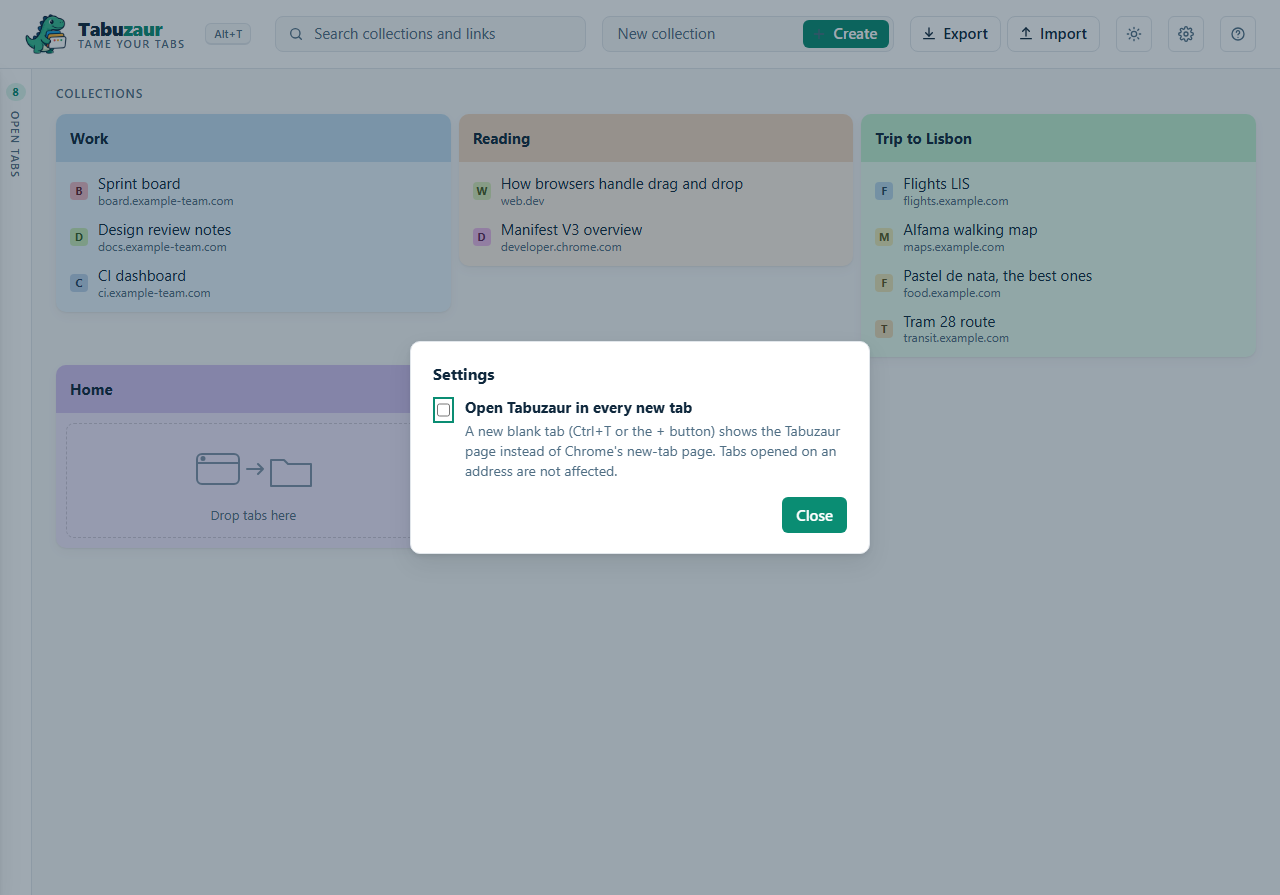
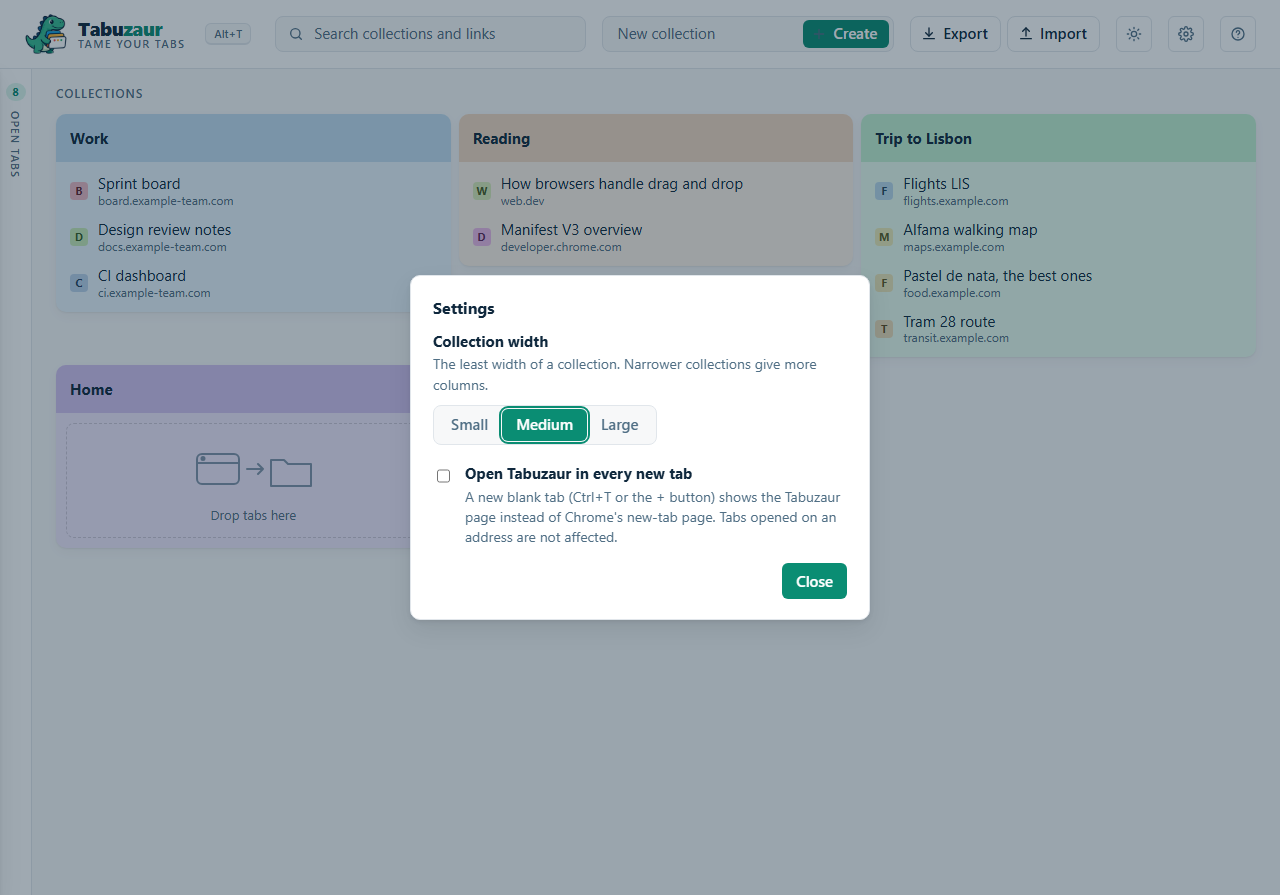
feat: collection width setting with three steps
Settings holds a bar Small / Medium / Large (CardSizeStore under
tabuzaur-card-size, medium until saved, two tests). The step sets the
least width of a card through html[data-size] and a --card-min variable:
260, 320 or 420px. Measured headless at 1280px: 4, 3 or 2 columns; the
count still follows the window. The dialog opens with the focus on the
current step. Help, README and the settings picture name the bar.

Changed region(s): [[0.3125, 0.3017, 0.6875, 0.6939]]

diff --git a/src/tabs/main.ts b/src/tabs/main.ts
@@ -3,8 +3,8 @@ import { backupFileName, parseBackup, serializeBackup } from "../lib/backup.ts";
 import { CollectionBook, findMatch } from "../lib/collections.ts";
 import type { Clock, Collection, IdSource, SavedPage } from "../lib/model.ts";
 import { HUE_COUNT, RandomIdSource, SystemClock } from "../lib/model.ts";
-import type { Persistence, Theme } from "../lib/storage.ts";
-import { FlagStore, LocalPersistence, OPEN_IN_NEW_TAB_KEY, SIDEBAR_PINNED_KEY, THEMES, ThemeStore } from "../lib/storage.ts";
+import type { CardSize, Persistence, Theme } from "../lib/storage.ts";
+import { CARD_SIZES, CardSizeStore, FlagStore, LocalPersistence, OPEN_IN_NEW_TAB_KEY, SIDEBAR_PINNED_KEY, THEMES, ThemeStore } from "../lib/storage.ts";
 import type { OpenTab, TabBrowser } from "../lib/tabs.ts";
 import { ChromeTabBrowser } from "../lib/tabs.ts";
 import { hostnameOf, hueOf, initialOf } from "../lib/urls.ts";
@@ -57,6 +57,7 @@ class TabsPage {
   private theme: Theme = "system";
   private pinned = false;
   private openInNewTab = false;
+  private cardSize: CardSize = "medium";
   private shortcut = "";
   private renaming: string | undefined;
   private editingPage: PageRef | undefined;
@@ -72,6 +73,7 @@ class TabsPage {
     private readonly themes: ThemeStore,
     private readonly sidebarPinned: FlagStore,
     private readonly newTabFlag: FlagStore,
+    private readonly cardSizes: CardSizeStore,
     private readonly browser: TabBrowser,
     private readonly clock: Clock,
     private readonly ids: IdSource,
@@ -81,7 +83,9 @@ class TabsPage {
     this.theme = await this.themes.load();
     this.pinned = await this.sidebarPinned.load();
     this.openInNewTab = await this.newTabFlag.load();
+    this.cardSize = await this.cardSizes.load();
     this.applyTheme();
+    this.applyCardSize();
     this.darkSystem.addEventListener("change", () => { this.applyTheme(); });
     await this.loadBook();
     this.ownWindowId = await this.browser.currentWindowId();
@@ -105,6 +109,11 @@ class TabsPage {
     if (this.book !== loaded) {
       await this.persistence.save(this.book.toData());  // a pre-0.3.0 document: colors are stamped once
     }
+  }
+
+  /** The stylesheet reads the collection width from this attribute (the least width of a card). */
+  private applyCardSize(): void {
+    document.documentElement.dataset.size = this.cardSize;
   }
 
   /** Resolves "system" to the OS choice, so the stylesheet only knows light and dark. */
@@ -196,11 +205,42 @@ class TabsPage {
     return gear;
   }
 
-  /** The settings dialog: one option so far, off by default. */
+  /** The settings dialog: the collection width bar and the new-tab option (off by default). */
   private openSettings(): void {
     const dialog = el("dialog", "settings") as HTMLDialogElement;
     const heading = el("h3");
     heading.textContent = "Settings";
+
+    const sizeRow = el("div", "option size");
+    const sizeWords = el("span");
+    const sizeName = el("strong");
+    sizeName.textContent = "Collection width";
+    const sizeNote = el("span", "note");
+    sizeNote.textContent = "The least width of a collection. Narrower collections give more columns.";
+    sizeWords.append(sizeName, sizeNote);
+    const bar = el("div", "segments");
+    bar.setAttribute("role", "radiogroup");
+    bar.setAttribute("aria-label", "Collection width");
+    const labels: Record<CardSize, string> = { small: "Small", medium: "Medium", large: "Large" };
+    const segments = CARD_SIZES.map((size) => {
+      const segment = button(() => {
+        this.run(async () => {
+          await this.cardSizes.save(size);
+          this.cardSize = size;
+          this.applyCardSize();
+          for (const [other, otherSize] of segments) {
+            other.setAttribute("aria-checked", String(otherSize === size));
+          }
+        }, () => undefined);
+      }, "button", "segment", labels[size]);
+      segment.setAttribute("role", "radio");
+      segment.setAttribute("aria-checked", String(size === this.cardSize));
+      segment.autofocus = size === this.cardSize;  // the dialog opens with the focus on the current step
+      bar.append(segment);
+      return [segment, size] as const;
+    });
+    sizeRow.append(sizeWords, bar);
+
     const option = el("label", "option");
     const box = el("input") as HTMLInputElement;
     box.type = "checkbox";
@@ -220,7 +260,7 @@ class TabsPage {
     });
     const actions = el("div", "actions");
     actions.append(button(() => { dialog.close(); dialog.remove(); }, "button", "primary", "Close"));
-    dialog.append(heading, option, actions);
+    dialog.append(heading, sizeRow, option, actions);
     dialog.addEventListener("cancel", () => { dialog.remove(); });
     document.body.append(dialog);
     dialog.showModal();
@@ -942,6 +982,7 @@ const page = new TabsPage(
   new ThemeStore(chrome.storage.local),
   new FlagStore(chrome.storage.local, SIDEBAR_PINNED_KEY),
   new FlagStore(chrome.storage.local, OPEN_IN_NEW_TAB_KEY),
+  new CardSizeStore(chrome.storage.local),
   new ChromeTabBrowser(),
   new SystemClock(),
   new RandomIdSource(),

diff --git a/help.html b/help.html
@@ -67,9 +67,10 @@
           <li><strong>The toolbar button.</strong> Click the dinosaur next to the address bar. Pin it there with the puzzle-piece menu if Chrome hides it.</li>
           <li><strong>Alt+T.</strong> Chrome assigns this key at install when no other extension uses it. The page header shows the key in effect. If it shows <em>No shortcut assigned</em>, click it and set a key on <code>chrome://extensions/shortcuts</code>.</li>
           <li><strong>Every new tab.</strong> Off by default. Open Settings with the gear in the header and tick <strong>Open Tabuzaur in every new tab</strong>. A new blank tab then shows the Tabuzaur page. Untick it to get Chrome's new-tab page back.</li>
+          <li><strong>Collection width.</strong> Settings also holds a bar with three steps: Small, Medium, Large. It sets the least width of a collection. Narrower collections give more columns. The number of columns follows the window either way.</li>
           <li><strong>Start page.</strong> Copy the ID from the Tabuzaur card. Open <code>chrome://settings/onStartup</code>, choose <strong>Open a specific page or set of pages</strong>, click <strong>Add a new page</strong> and enter <code>chrome-extension://&lt;id&gt;/tabs.html</code>.</li>
         </ul>
-        <figure><img src="help/img/settings.png" alt="The settings dialog with the new-tab option" /><figcaption>Settings: the new-tab option, off until you tick it.</figcaption></figure>
+        <figure><img src="help/img/settings.png" alt="The settings dialog with the new-tab option" /><figcaption>Settings: the collection width bar and the new-tab option, off until you tick it.</figcaption></figure>
         <figure><img src="help/img/chrome-startup.png" alt="Chrome's On startup setting with the Tabuzaur page added" /><figcaption>The On startup setting with the Tabuzaur page.</figcaption></figure>
         <figure><img src="help/img/chrome-shortcuts.png" alt="Chrome's keyboard shortcuts page with the Tabuzaur row" /><figcaption>The shortcuts page: any key can be set here.</figcaption></figure>
       </section>

diff --git a/tests/storage.test.ts b/tests/storage.test.ts
@@ -1,7 +1,7 @@
 import { describe, expect, it } from "vitest";
 import { CollectionBook } from "../src/lib/collections.ts";
 import { STORAGE_KEY } from "../src/lib/model.ts";
-import { FlagStore, LocalPersistence, parseStoreData, SIDEBAR_PINNED_KEY, THEME_KEY, ThemeStore } from "../src/lib/storage.ts";
+import { CARD_SIZE_KEY, CardSizeStore, FlagStore, LocalPersistence, parseStoreData, SIDEBAR_PINNED_KEY, THEME_KEY, ThemeStore } from "../src/lib/storage.ts";
 import { CountingIdSource, FixedClock, MemoryArea, noChanges, pageA, pageB } from "./fakes.ts";
 
 const clock = new FixedClock("2026-10-12T10:00:00.000Z");
@@ -81,6 +81,23 @@ describe("ThemeStore", () => {
     const area = new MemoryArea();
     area.seed(THEME_KEY, "sepia");
     await expect(new ThemeStore(area).load()).rejects.toThrow('unknown theme "sepia"');
+  });
+});
+
+describe("CardSizeStore", () => {
+  it("is medium until saved, then round-trips, under its own key", async () => {
+    const area = new MemoryArea();
+    const store = new CardSizeStore(area);
+    expect(await store.load()).toBe("medium");
+    await store.save("large");
+    expect(await store.load()).toBe("large");
+    expect(await area.get(CARD_SIZE_KEY)).toEqual({ [CARD_SIZE_KEY]: "large" });
+  });
+
+  it("rejects a value that is not one of the three steps", async () => {
+    const area = new MemoryArea();
+    await area.set({ [CARD_SIZE_KEY]: 320 });
+    await expect(new CardSizeStore(area).load()).rejects.toThrow("unknown collection width 320");
   });
 });
 

diff --git a/src/tabs/tabs.css b/src/tabs/tabs.css
@@ -345,6 +345,47 @@ dialog.settings .note {
   font-size: 14px;
 }
 
+dialog.settings .option.size {
+  flex-direction: column;
+  gap: 10px;
+  margin-bottom: 18px;
+  cursor: default;
+}
+
+/* a bar of three steps; the chosen one is filled */
+.segments {
+  display: inline-flex;
+  padding: 3px;
+  border: 1px solid var(--line);
+  border-radius: 8px;
+  background: var(--bg);
+}
+
+.segments .segment {
+  padding: 5px 14px;
+  border: none;
+  border-radius: 6px;
+  background: none;
+  color: var(--muted);
+  font: inherit;
+  font-weight: 600;
+  cursor: pointer;
+}
+
+.segments .segment:hover {
+  color: var(--fg);
+}
+
+.segments .segment[aria-checked="true"] {
+  background: var(--accent);
+  color: #fff;
+}
+
+.segments .segment:focus-visible {
+  outline: 2px solid var(--accent);
+  outline-offset: 1px;
+}
+
 dialog.import,
 dialog.settings {
   width: min(460px, 90vw);
@@ -671,9 +712,22 @@ details.window > summary .count {
 
 /* ---- cards -------------------------------------------------------------------------------- */
 
+/* the least width of a card comes from the collection width setting (html[data-size]) */
+:root {
+  --card-min: 320px;
+}
+
+:root[data-size="small"] {
+  --card-min: 260px;
+}
+
+:root[data-size="large"] {
+  --card-min: 420px;
+}
+
 .cards {
   display: grid;
-  grid-template-columns: repeat(auto-fill, minmax(320px, 1fr));
+  grid-template-columns: repeat(auto-fill, minmax(var(--card-min), 1fr));
   gap: 8px;
   align-items: start;
 }

diff --git a/src/lib/storage.ts b/src/lib/storage.ts
@@ -137,6 +137,33 @@ export class ThemeStore {
   }
 }
 
+/** The least width of a collection card, as a step; the stylesheet maps each step to pixels. */
+export type CardSize = "small" | "medium" | "large";
+export const CARD_SIZES: readonly CardSize[] = ["small", "medium", "large"];
+export const CARD_SIZE_KEY = "tabuzaur-card-size";
+
+/** The collection width choice under its own key; "medium" when none was ever saved. */
+export class CardSizeStore {
+  constructor(private readonly area: KeyValueArea) {}
+
+  async load(): Promise<CardSize> {
+    const items = await this.area.get(CARD_SIZE_KEY);
+    const raw = items[CARD_SIZE_KEY];
+    if (raw === undefined) {
+      return "medium";
+    }
+    const size = CARD_SIZES.find((s) => s === raw);
+    if (size === undefined) {
+      throw new Error(`unknown collection width ${JSON.stringify(raw)}`);
+    }
+    return size;
+  }
+
+  async save(size: CardSize): Promise<void> {
+    await this.area.set({ [CARD_SIZE_KEY]: size });
+  }
+}
+
 export const SIDEBAR_PINNED_KEY = "tabuzaur-sidebar-pinned";
 /** When true, a new blank tab opens the Tabuzaur page instead of Chrome's new-tab page. Off until saved. */
 export const OPEN_IN_NEW_TAB_KEY = "tabuzaur-open-in-new-tab";

diff --git a/README.md b/README.md
@@ -61,6 +61,8 @@ To update: unzip the new release over the same folder, then click the reload ico
   after a question.
 - **Find.** Type in the search field. Only collections with a match stay, and Tabuzaur marks the match.
 - **Theme.** The round button cycles through system, light and dark.
+- **Settings.** The gear opens the settings: a bar with three steps for the collection width
+  (Small, Medium, Large) and the new-tab option.
 - **Help.** The `?` button opens the help page, the same one that opens after install.
 
 ![The open-tab panel slid out over the collections](public/help/img/flyout.png)
